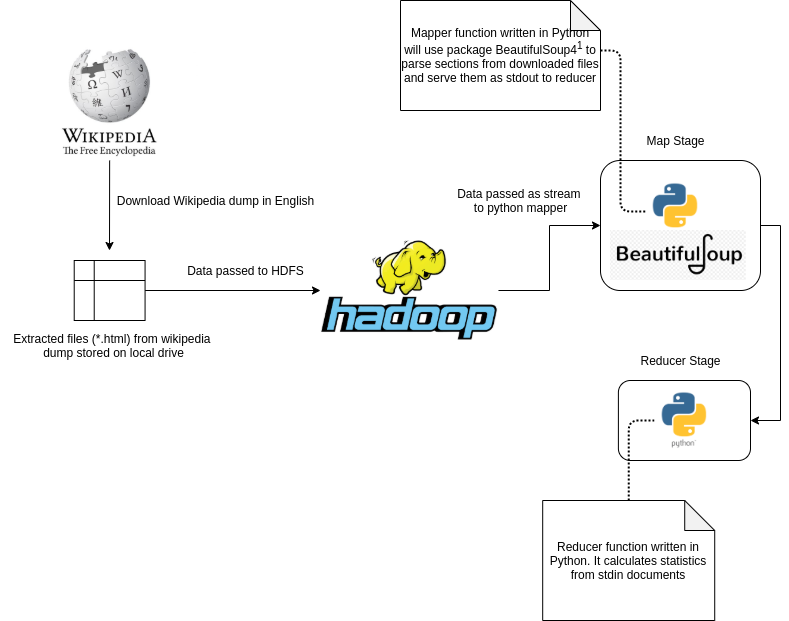
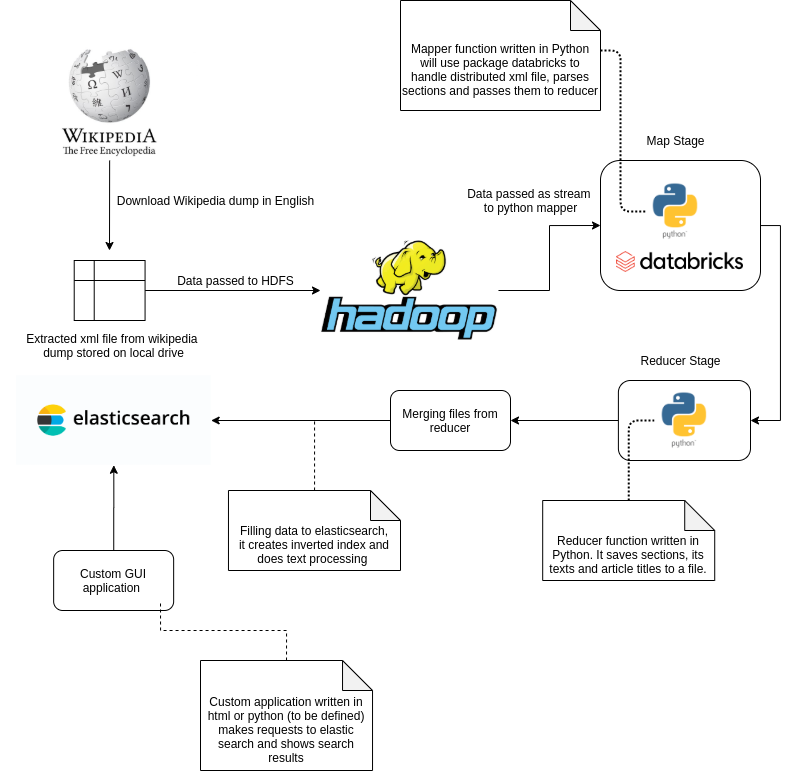
update after second consulting

diff --git a/doc/pseudo_code_reducer.py b/doc/pseudo_code_reducer.py
@@ -1,15 +1,11 @@
 # Reducer
 
-# import inverted index builder
-
 import sys
 
 for section in sys.stdin:
 
-    # 1. update inverted index
-    _update_index( section )
+    # Save section to file together with article title and section's text
+    f.write( section, title, text )
 
-    # 2. recalculate statistics
-
-    # 3. pass output to some other process via standard output
+    # pass output to some other process via standard output
     print( reply )

diff --git a/doc/pseudo_code_mapper.py b/doc/pseudo_code_mapper.py
@@ -1,17 +1,18 @@
 # Mapper 
 
-# import beautifulSoup4 as bs
+# import databricks_py
 
 import sys
+import xml
 
 # input from standard input ~ HMTL sites from HDFS
 
 for site in sys.stdin:
 
-    parser = bs.beautifulSoup4(site, type="HTML")
+    parser = databricks( input )
     
     # get sections from parser
-    parser.find(" SECTION TAG ")
+    sections = find(" === SECTION TAG === ", parser)
     
     # probably some preprocessing 
 
